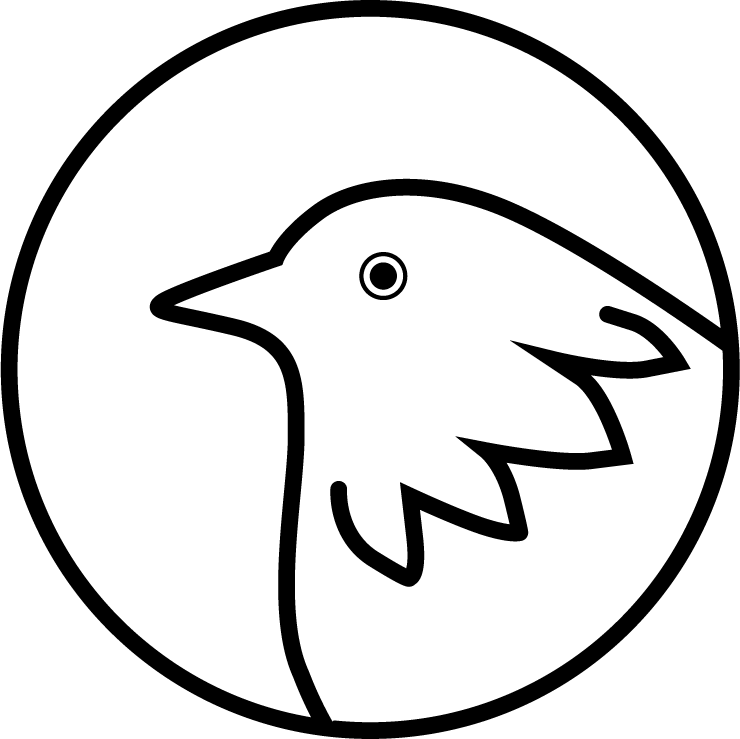
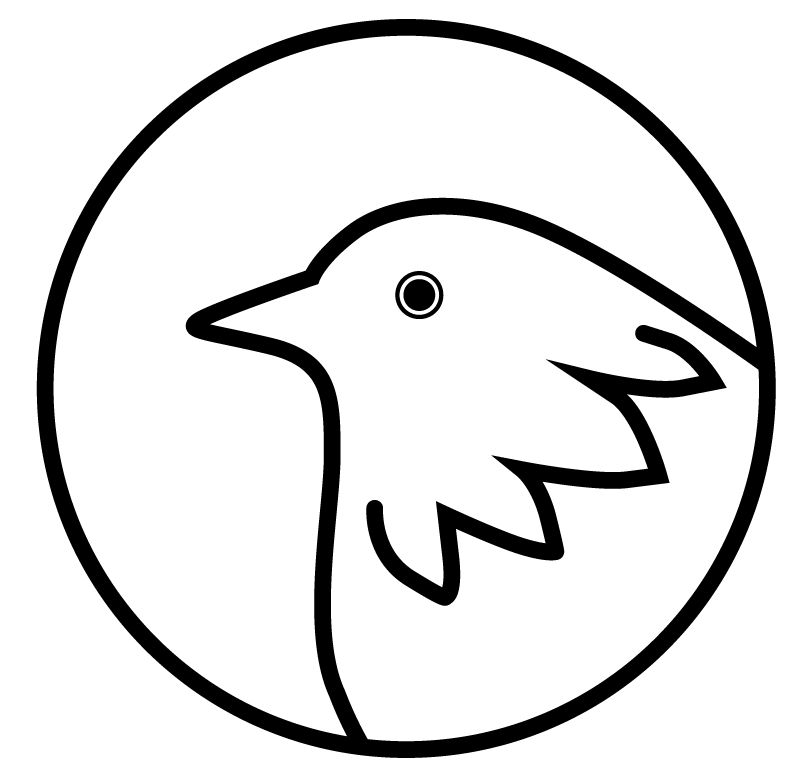
user hover

Changed region(s): [[0.0, 0.0, 1.0, 1.0], [0.4662, 0.3424, 0.5595, 0.4046]]

diff --git a/src/components/layout/Header.jsx b/src/components/layout/Header.jsx
@@ -45,7 +45,7 @@ export default function Header() {
     >
       <Link to={'/login'}>
         <img
-          className='w-16 m-2'
+          className='w-20 m-4 cursor-pointer'
           src='/img/logo-chirp-02.png'
           alt='logo'
         />
@@ -106,7 +106,7 @@ export default function Header() {
         {ctx.isUserLoggedIn ? (
           <img
             src='/img/bird-user.png'
-            className='w-7'
+            className='w-7 cursor-pointer hover:bg-primary hover:rounded-full'
             onClick={() => navigate('/user-profile')}
           />
         ) : (
